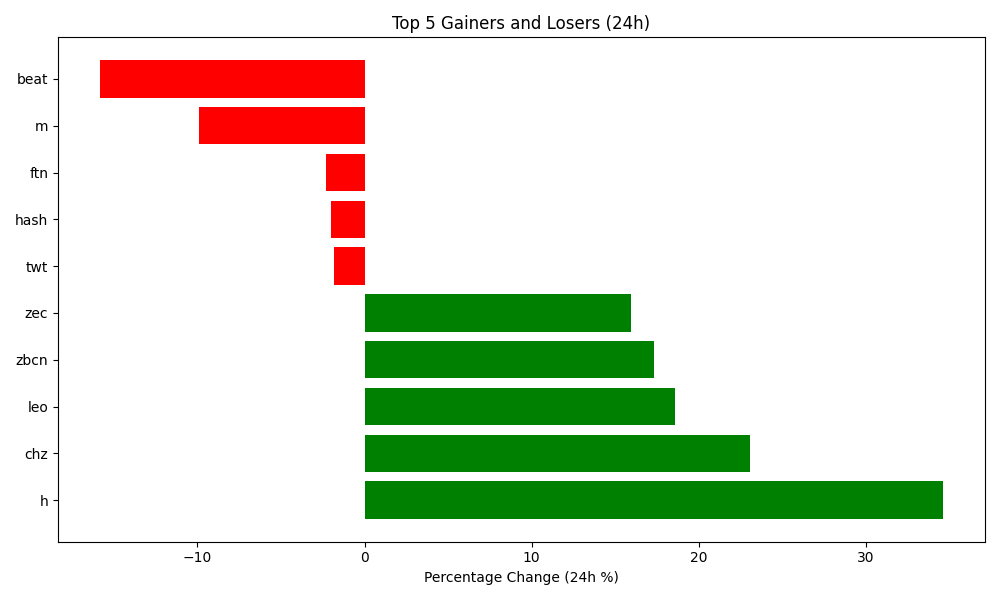
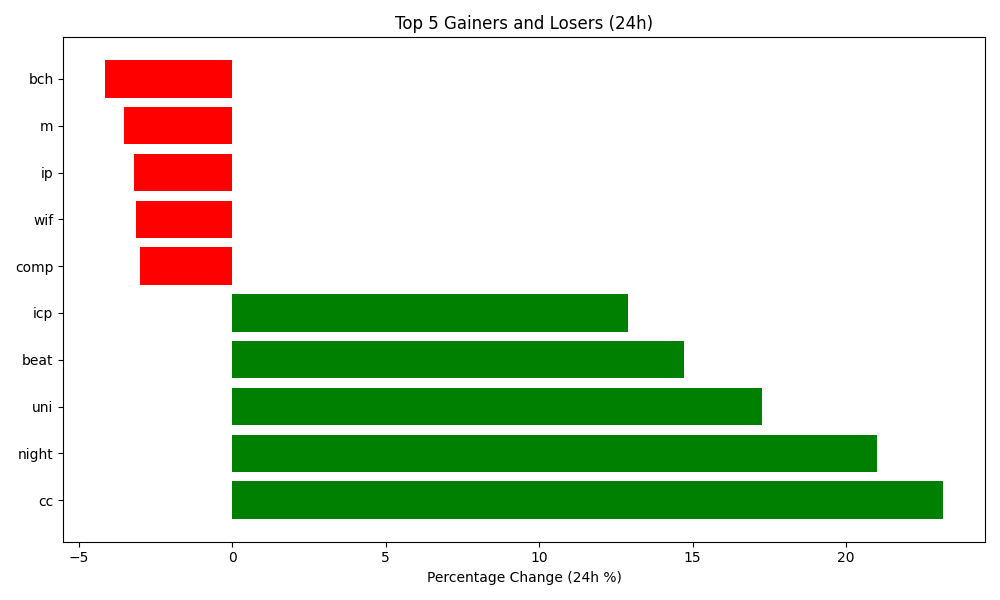
Auto-update crypto data and plot

diff --git a/README.md b/README.md
@@ -4,7 +4,7 @@ Author: Hitesh Agrawal
 This repository automatically tracks the top 5 gaining, top 5 losing, and top 5 highest volume cryptocurrencies in the last 24 hours using the CoinGecko API, Python, Matplotlib, and GitHub Actions updates the below content everyday at midnight.
 
 <!-- START_DYNAMIC_CONTENT -->
-Last updated: 2025-12-20 01:04 UTC
+Last updated: 2025-12-21 01:12 UTC
 
 ![Crypto Movers Plot](crypto_movers_plot.png)
 
@@ -12,33 +12,33 @@ Last updated: 2025-12-20 01:04 UTC
 
 | Rank | Coin | Price Change (24h %) | Volume (USD) | Current Price (USD) |
 | :--: | :--: | :------------------: | :----------: | :-----------------: |
-| 1 | h | 34.59% | $87,803,541 | $0.1304 |
-| 2 | chz | 23.07% | $195,748,879 | $0.0353 |
-| 3 | leo | 18.58% | $4,332,754 | $7.9900 |
-| 4 | zbcn | 17.32% | $15,121,308 | $0.0028 |
-| 5 | zec | 15.93% | $812,639,066 | $450.1800 |
+| 1 | cc | 23.16% | $51,130,848 | $0.1034 |
+| 2 | night | 21.01% | $3,444,633,140 | $0.0786 |
+| 3 | uni | 17.27% | $919,536,736 | $6.1900 |
+| 4 | beat | 14.73% | $69,573,573 | $2.3700 |
+| 5 | icp | 12.91% | $151,456,348 | $3.3100 |
 
 
 **👇 Top 5 Losers (24h)**
 
 | Rank | Coin | Price Change (24h %) | Volume (USD) | Current Price (USD) |
 | :--: | :--: | :------------------: | :----------: | :-----------------: |
-| 1 | beat | -15.82% | $90,137,998 | $2.0800 |
-| 2 | m | -9.93% | $19,121,690 | $1.4100 |
-| 3 | ftn | -2.29% | $12,750,495 | $1.2800 |
-| 4 | hash | -2.00% | $15,650 | $0.0303 |
-| 5 | twt | -1.85% | $21,468,892 | $0.8362 |
+| 1 | bch | -4.14% | $389,851,907 | $592.7100 |
+| 2 | m | -3.52% | $12,315,475 | $1.3500 |
+| 3 | ip | -3.20% | $18,164,898 | $1.6200 |
+| 4 | wif | -3.13% | $88,096,177 | $0.3450 |
+| 5 | comp | -3.01% | $22,207,029 | $24.2400 |
 
 
 **💎 Top 5 by Trade Volume (24h)**
 
 | Rank | Coin | Price Change (24h %) | Volume (USD) | Current Price (USD) |
 | :--: | :--: | :------------------: | :----------: | :-----------------: |
-| 1 | usdt | 0.01% | $90,146,087,046 | $0.9996 |
-| 2 | btc | 3.08% | $51,180,188,638 | $87,985.0000 |
-| 3 | eth | 5.29% | $28,216,901,985 | $2,973.0400 |
-| 4 | usdc | 0.00% | $13,309,969,967 | $0.9999 |
-| 5 | bnb | 2.73% | $5,611,667,771 | $853.0200 |
+| 1 | usdt | 0.02% | $34,149,235,638 | $0.9997 |
+| 2 | btc | 0.24% | $16,507,300,584 | $88,307.0000 |
+| 3 | eth | -0.10% | $8,343,331,682 | $2,977.0100 |
+| 4 | usdc | 0.00% | $3,888,539,451 | $0.9999 |
+| 5 | night | 21.01% | $3,444,633,140 | $0.0786 |
 
 
 <!-- END_DYNAMIC_CONTENT -->
